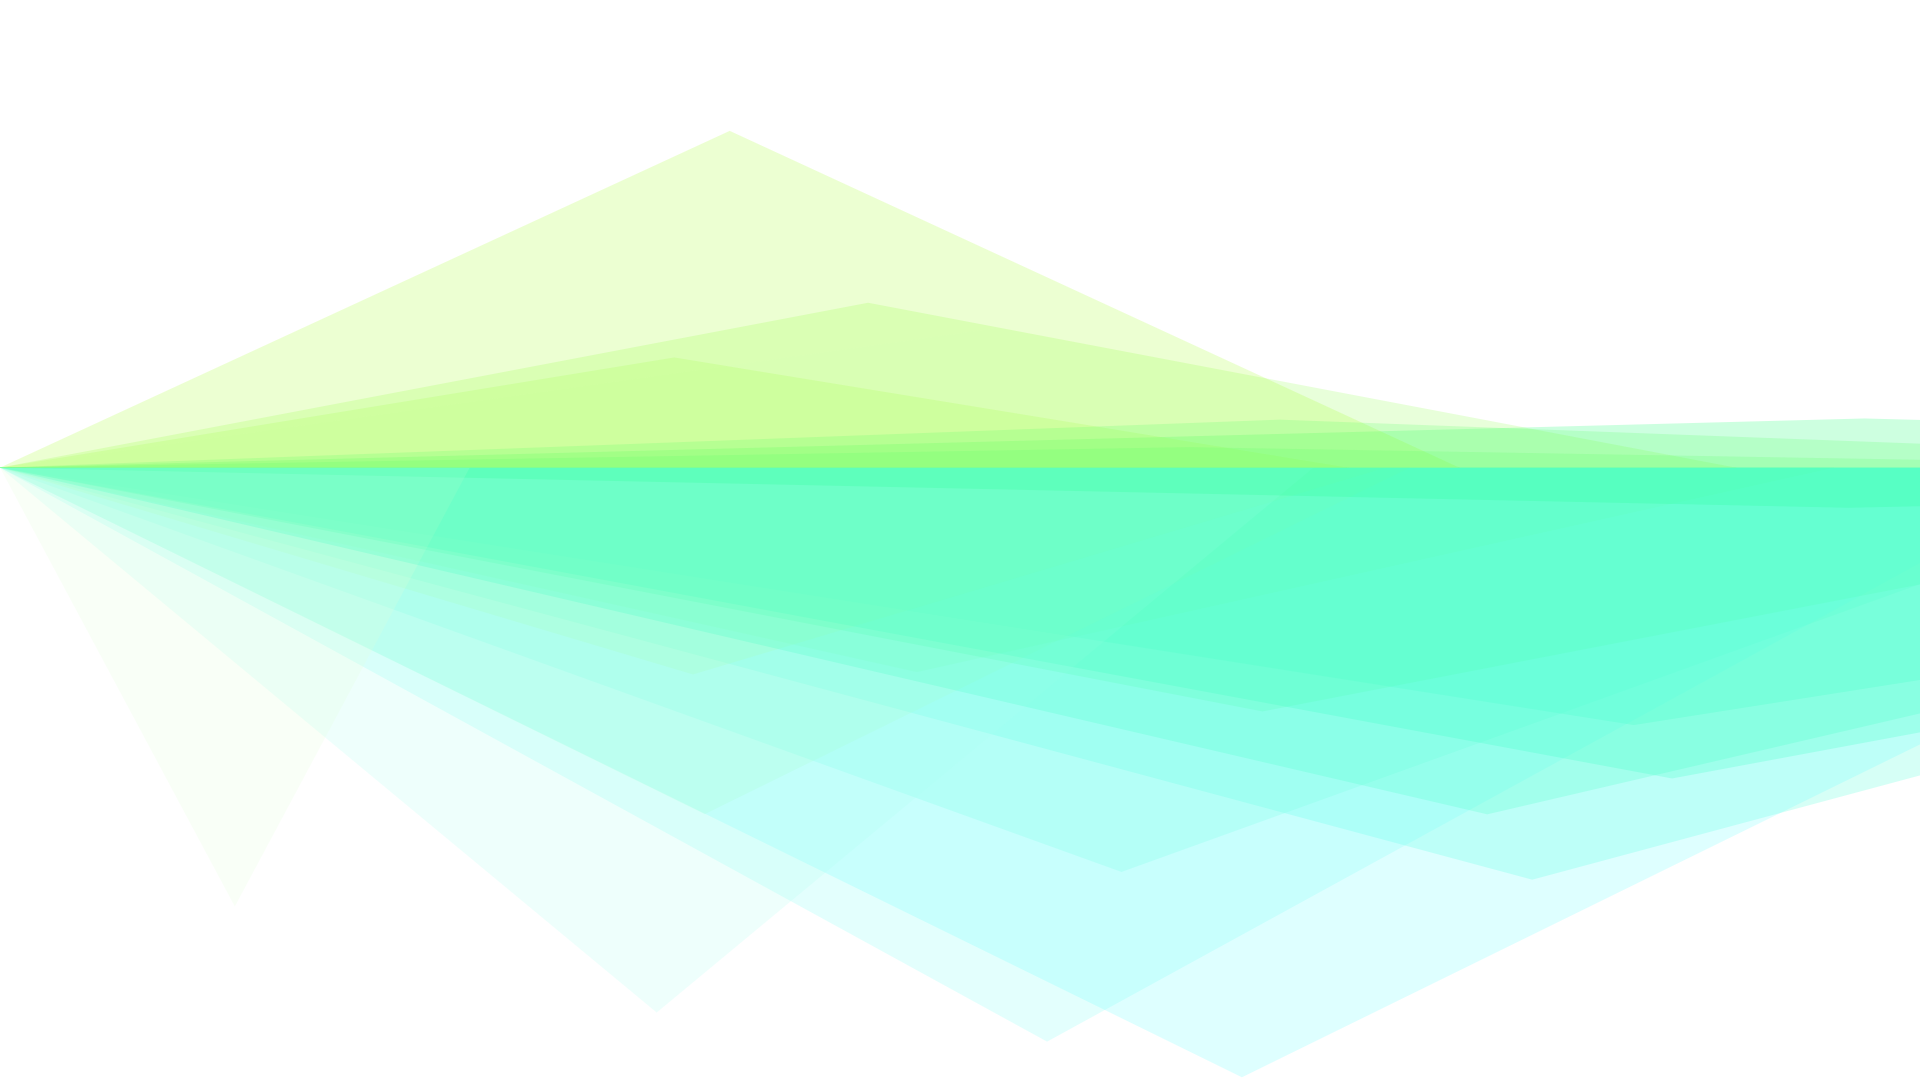
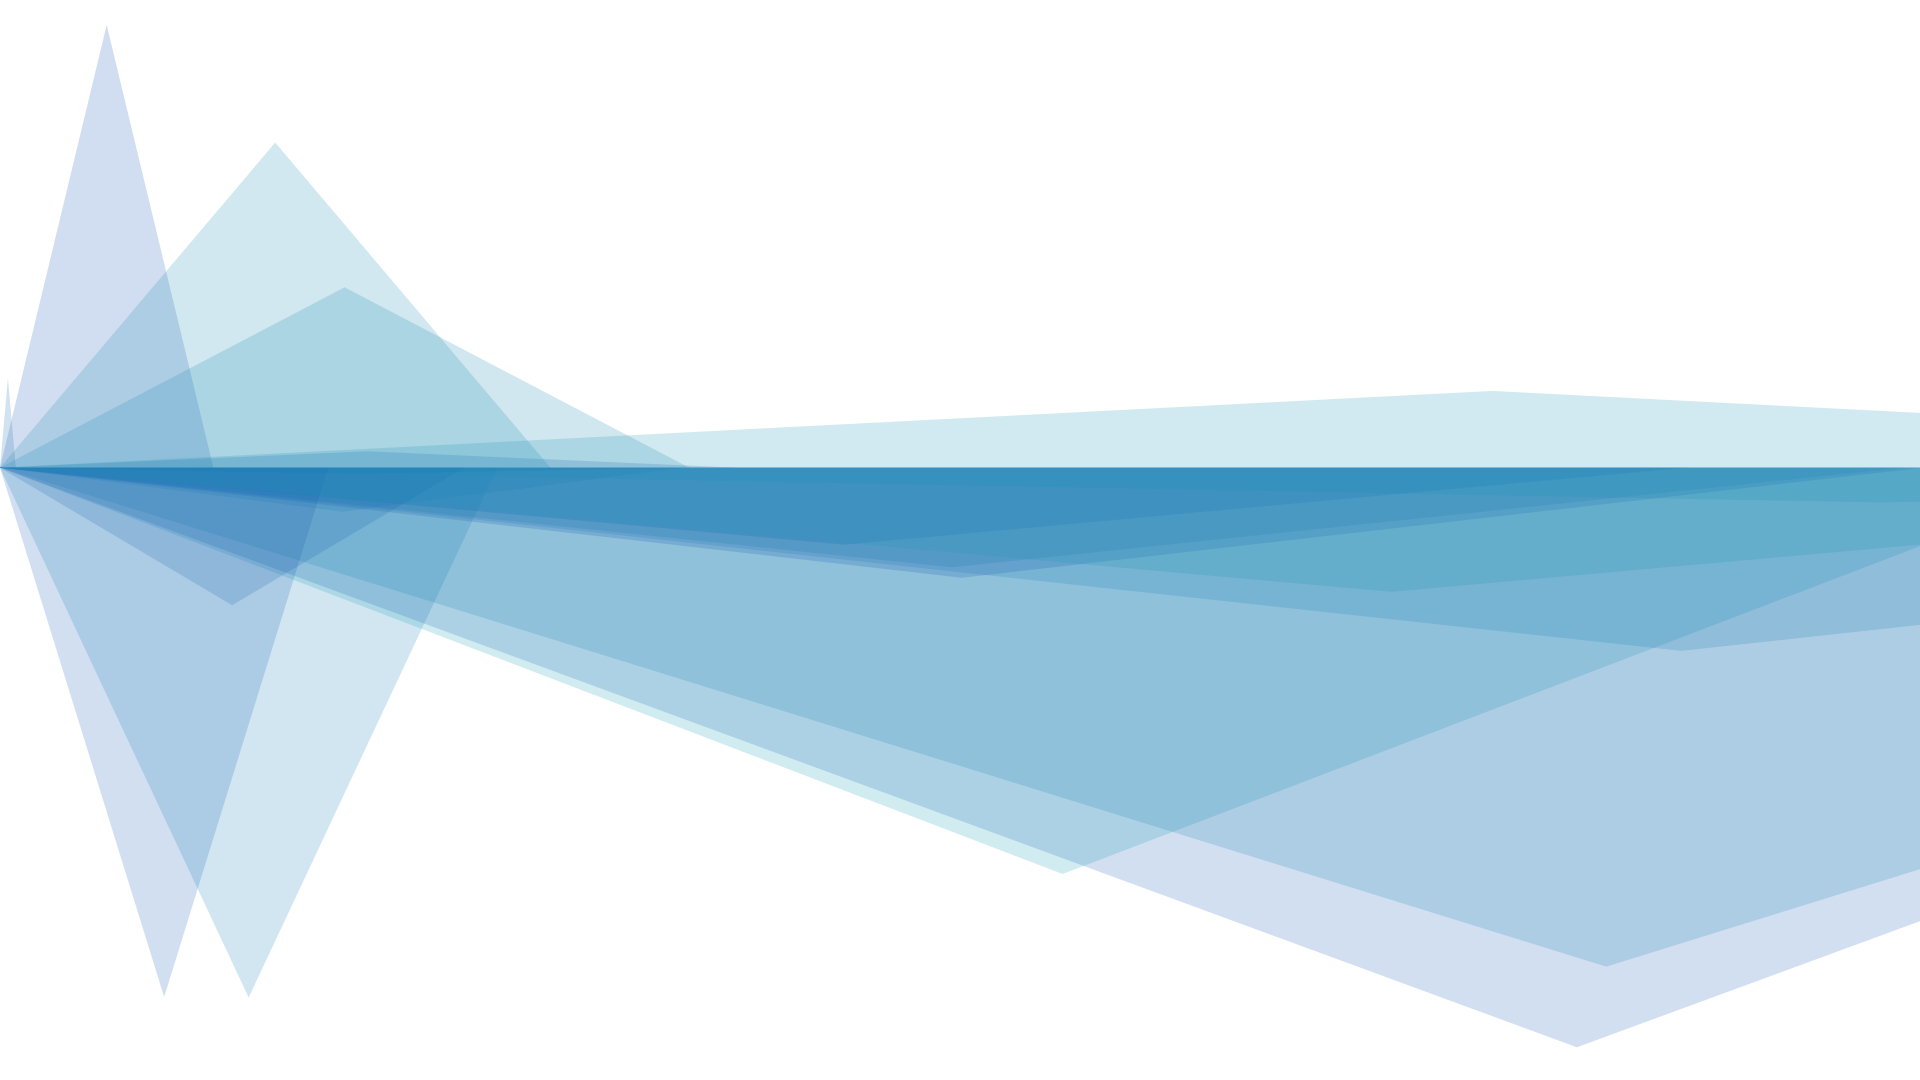
transparent backgrounds, new background image

diff --git a/index.html b/index.html
@@ -9,7 +9,7 @@
     </head>
     <body>
         
-            <nav class="navbar navbar-expand-lg navbar-light bg-light">                
+            <nav class="navbar navbar-expand-lg navbar-light bg-none">                
                 <button class="navbar-toggler" type="button" data-toggle="collapse" data-target="#navbarNavDropdown" aria-controls="navbarNavDropdown" aria-expanded="false" aria-label="Toggle navigation">
                   <span class="navbar-toggler-icon"></span>
                 </button>
@@ -45,8 +45,8 @@
                 <div class="card-body">
                 <h5 class="card-title">Arbitrage Calculator</h5>
                 <p class="card-text">A Bitcoin exchange arbitrage calculator using Node, Express, and React. (In progress) </p>
-                <a href="https://github.com/J-danger/btcLast-ExpressProxy" class="btn btn-primary" target="_blank" >Github</a>
-                <a href="https://btclast.herokuapp.com/" class="btn btn-primary" target="_blank" >Deployed</a>
+                <a href="https://github.com/J-danger/btcLast-ExpressProxy" class="btn btn-info" target="_blank" >Github</a>
+                <a href="https://btclast.herokuapp.com/" class="btn btn-info" target="_blank" >Deployed</a>
                 </div>
             </div>
 
@@ -55,8 +55,8 @@
                 <div class="card-body">
                 <h5 class="card-title">Burger MVC</h5>
                 <p class="card-text">A full-stack SQL based MVC 'burger' logger with POST, GET, PUT and DELETE functionality.</p>
-                <a href="https://github.com/J-danger/burger" class="btn btn-primary" target="_blank" >Github</a>
-                <a href="https://calm-lake-18609.herokuapp.com/burgers" class="btn btn-primary" target="_blank" >Deployed</a>
+                <a href="https://github.com/J-danger/burger" class="btn btn-info" target="_blank" >Github</a>
+                <a href="https://calm-lake-18609.herokuapp.com/burgers" class="btn btn-info" target="_blank" >Deployed</a>
                 </div>
             </div>
 
@@ -65,8 +65,8 @@
                 <div class="card-body">
                 <h5 class="card-title">Memory Game</h5>
                 <p class="card-text">A React based memory game that utilizes states for game logic and random positioning.</p>
-                <a href="https://github.com/J-danger/Clicky-game" class="btn btn-primary" target="_blank" >Github</a>
-                <a href="https://j-danger.github.io/Clicky-game/" class="btn btn-primary" target="_blank" >Deployed</a>
+                <a href="https://github.com/J-danger/Clicky-game" class="btn btn-info" target="_blank" >Github</a>
+                <a href="https://j-danger.github.io/Clicky-game/" class="btn btn-info" target="_blank" >Deployed</a>
                 </div>
             </div>
         </div>
